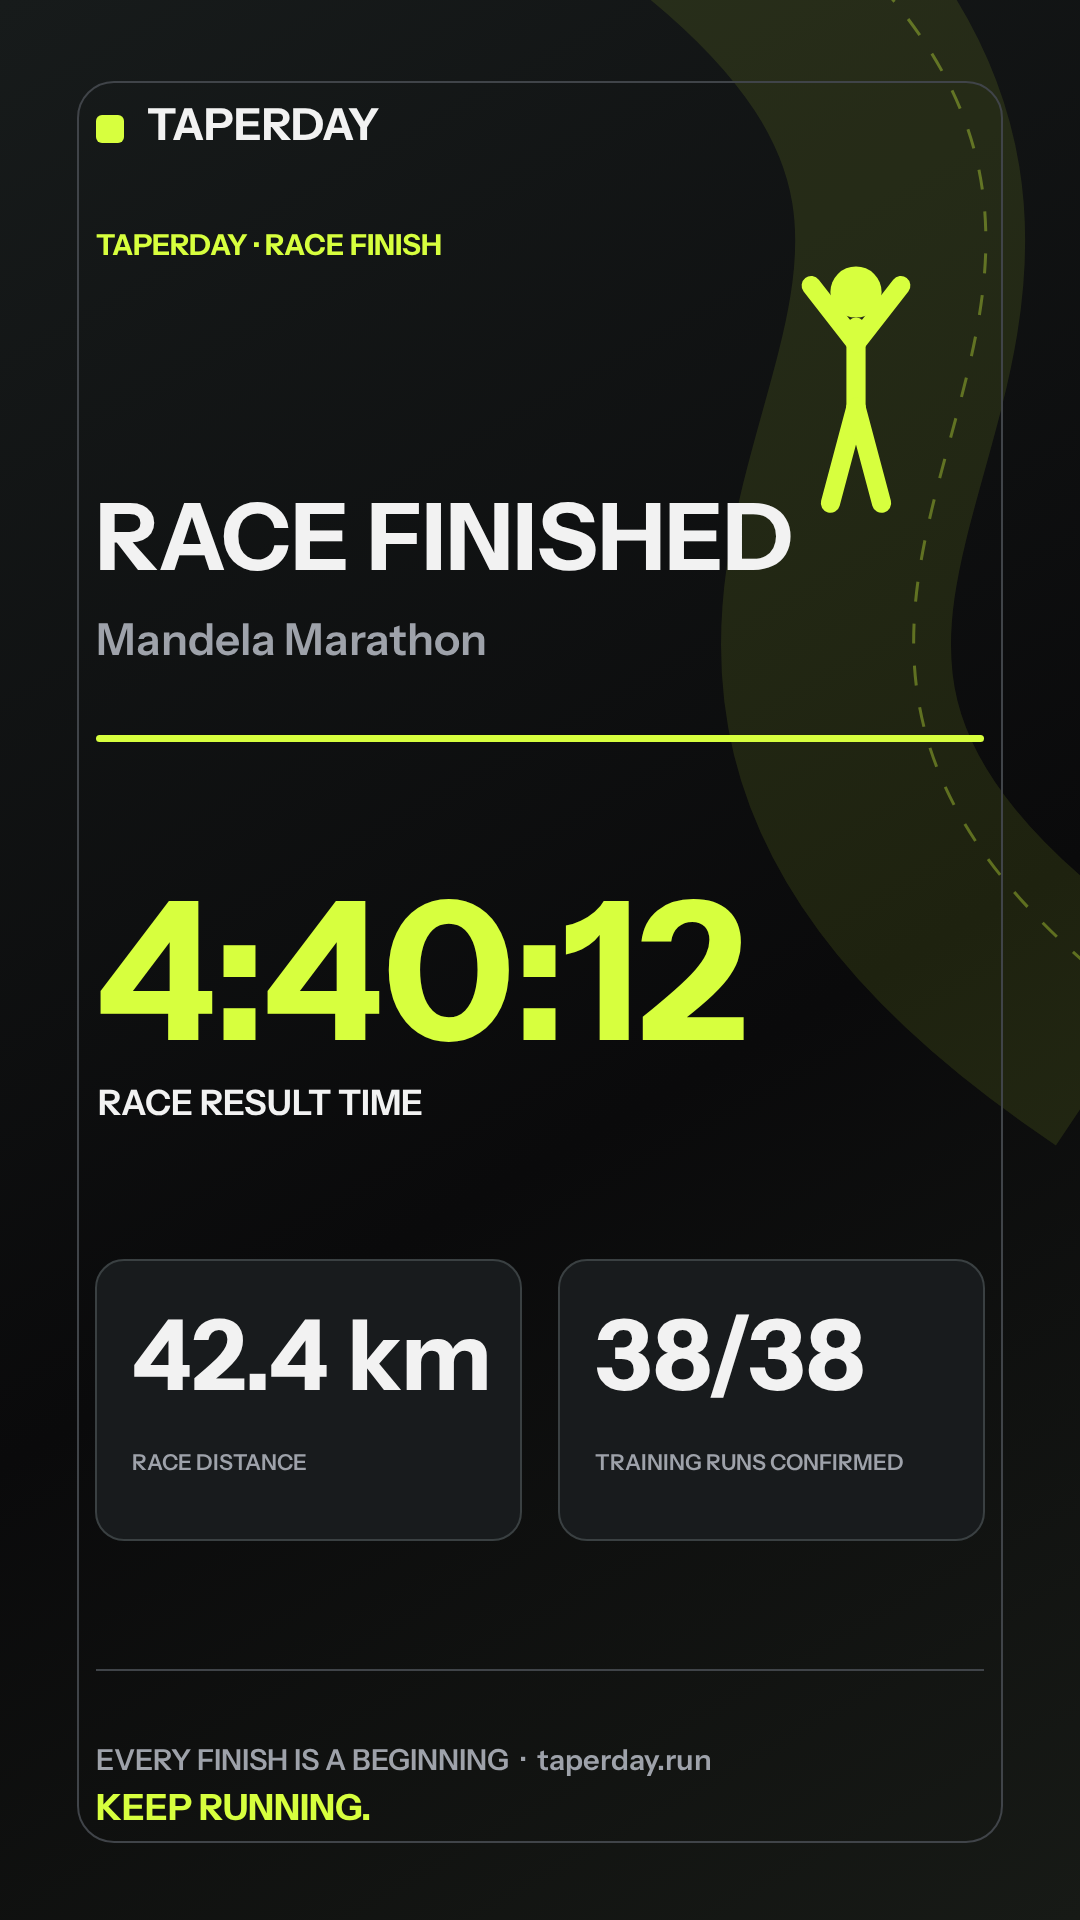
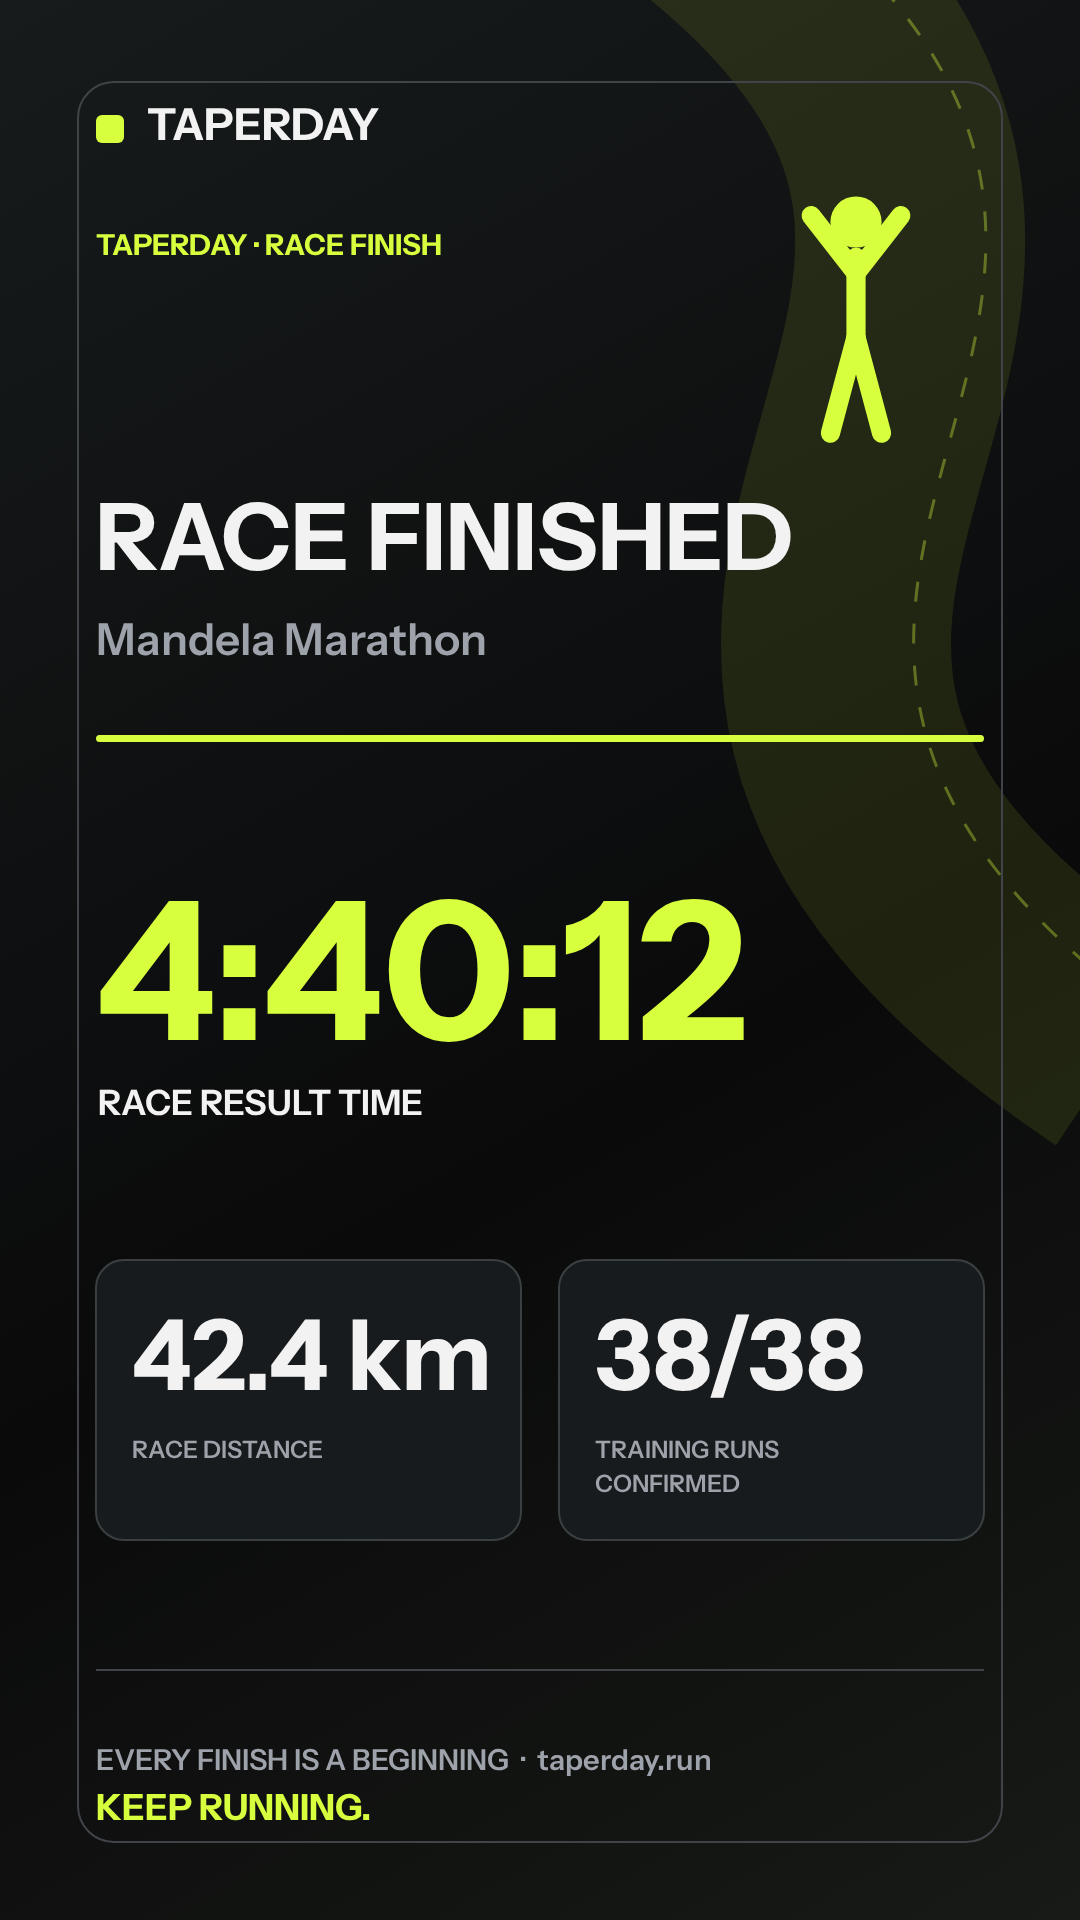
fix(journey): scope history to its account and document final visual QA

Changed region(s): [[0.7333, 0.0938, 0.8556, 0.2812], [0.55, 0.75, 0.825, 0.7812], [0.1222, 0.75, 0.3056, 0.7812]]

diff --git a/client/src/features/journey/RunningJourney.tsx b/client/src/features/journey/RunningJourney.tsx
@@ -35,7 +35,8 @@ export function RunningJourney({ units, today, runDays = [] }: { units: Units; t
   const { state, actions } = useJourney(true)
   const [loaded, setDetail] = useState<Detail | null>(null)
   const detail = loaded?.owner === auth ? loaded : null
-  const [replay, setReplay] = useState<{ kind: 'training' | 'race'; chapter: PlanChapter; trigger?: HTMLElement } | null>(null)
+  const [chosen, setReplay] = useState<{ owner: Auth; kind: 'training' | 'race'; chapter: PlanChapter; trigger?: HTMLElement } | null>(null)
+  const replay = chosen?.owner === auth ? chosen : null
   const [offerPlan, setOfferPlan] = useState<string | null>(null)
   const journeyRef = useRef<HTMLDivElement>(null)
   const [manual, setManual] = useState(false)
@@ -141,7 +142,7 @@ export function RunningJourney({ units, today, runDays = [] }: { units: Units; t
                   <button type="button" className="button" aria-expanded={!!opened && opened.kind === 'ready'} onClick={() => void open(chapter.planId)}>
                     {opened?.kind === 'ready' ? 'Close chapter' : 'View chapter'}
                   </button>
-                  {achievement(chapter, 'TrainingComplete') && <button type="button" className="button button-quiet" onClick={(event) => setReplay({ kind: 'training', chapter, trigger: event.currentTarget })}>Replay finish line</button>}
+                  {achievement(chapter, 'TrainingComplete') && <button type="button" className="button button-quiet" onClick={(event) => setReplay({ owner: auth, kind: 'training', chapter, trigger: event.currentTarget })}>Replay finish line</button>}
                 </div>
                 {opened?.kind === 'loading' && <p className="field-help" role="status">Opening…</p>}
                 {opened?.kind === 'error' && <p className="field-error" role="alert">{opened.message}</p>}
@@ -172,7 +173,7 @@ export function RunningJourney({ units, today, runDays = [] }: { units: Units; t
                             ? { ...previous, chapter: { ...previous.chapter, raceResult: result } } : previous)
                           if (request.current === requestId && recoveryWelcome(result.outcome)) setOfferPlan(opened.chapter.planId)
                           if (request.current === requestId && result.outcome === 'Finished' && opened.chapter.raceResult?.outcome !== 'Finished') {
-                            setReplay({ kind: 'race', chapter: { ...opened.chapter, raceResult: result } })
+                            setReplay({ owner: auth, kind: 'race', chapter: { ...opened.chapter, raceResult: result } })
                           }
                           return result
                         }}
@@ -183,7 +184,7 @@ export function RunningJourney({ units, today, runDays = [] }: { units: Units; t
                             ? { ...previous, chapter: { ...previous.chapter, raceResult: null } } : previous)
                           if (request.current === requestId) setOfferPlan(null)
                         }}
-                        onCelebrate={opened.chapter.raceResult?.outcome === 'Finished' ? trigger => setReplay({ kind: 'race', chapter: opened.chapter, trigger }) : undefined}
+                        onCelebrate={opened.chapter.raceResult?.outcome === 'Finished' ? trigger => setReplay({ owner: auth, kind: 'race', chapter: opened.chapter, trigger }) : undefined}
                       />
                     )}
                     {recovery ? <RecoveryDashboard recovery={recovery} today={today}

diff --git a/client/e2e/fixtures/finish-line.tsx b/client/e2e/fixtures/finish-line.tsx
@@ -35,7 +35,7 @@ const importedRuns: ActivitySummary[] = params.get('duplicate') === '1'
   ? [stravaMarathon, { ...stravaMarathon, id: '44444444-4444-4444-8444-444444444444', source: { ...stravaMarathon.source, kind: 'Upload', viewUrl: null } }]
   : [stravaMarathon]
 const award = (kind: 'TrainingComplete' | 'RaceFinished', celebratedAt: string | null = null) =>
-  ({ id: `award-${kind}`, kind, planId: PLAN_ID, earnedOn: kind === 'RaceFinished' ? '2026-11-15' : '2026-11-14', awardedAt: '2026-11-14T10:00:00Z', celebratedAt })
+  ({ id: `award-${kind}`, kind, planId: PLAN_ID, earnedOn: kind === 'RaceFinished' ? raceDate : '2026-11-14', awardedAt: '2026-11-14T10:00:00Z', celebratedAt })
 const seen = '2026-11-14T11:00:00Z'
 
 function initial(): Journey {
@@ -78,7 +78,7 @@ function useFakeJourney() {
       const result = raceResult({ outcome: body.outcome, raceDate: body.raceDate ?? '2026-11-15', finishTime: body.finishTime ?? null, distanceKm: body.distanceKm ?? null, activityId: body.activityId ?? null, versusGoal: body.finishTime === '01:52:10' ? '-00:02:50' : null, note: body.note ?? null, version: `v${Date.now()}` })
       update(j => ({ ...j, chapters: j.chapters.map(c => c.planId !== planId ? c : {
         ...c, raceResult: result, lifecycle: body.outcome === 'Finished' ? 'RaceCompleted' : 'RaceNotCompleted',
-        achievements: [...c.achievements.filter(a => a.kind !== 'RaceFinished'), ...(body.outcome === 'Finished' ? [award('RaceFinished')] : [])],
+        achievements: [...c.achievements.filter(a => a.kind !== 'RaceFinished'), ...(body.outcome === 'Finished' ? [{ ...award('RaceFinished'), earnedOn: result.raceDate }] : [])],
       }) }))
       return Promise.resolve(result)
     },
@@ -131,7 +131,7 @@ window.fetch = (input, init) => {
     const result = body ? raceResult({ ...body, planId: resultPath[1], raceDate: body.raceDate ?? raceDate, version: crypto.randomUUID(), versusGoal: null }) : null
     served.journey = { ...served.journey, chapters: served.journey.chapters.map(c => c.planId !== resultPath[1] ? c : {
       ...c, raceResult: result,
-      achievements: [...c.achievements.filter(a => a.kind !== 'RaceFinished'), ...(result?.outcome === 'Finished' ? [award('RaceFinished', seen)] : [])],
+      achievements: [...c.achievements.filter(a => a.kind !== 'RaceFinished'), ...(result?.outcome === 'Finished' ? [{ ...award('RaceFinished', seen), earnedOn: result.raceDate }] : [])],
     }) }
     if (scene === 'strava-history') localStorage.setItem('test:past-marathon-journey', JSON.stringify(served.journey))
     return Promise.resolve(result ? Response.json(result) : new Response(null, { status: 204 }))

diff --git a/client/src/features/journey/useJourney.ts b/client/src/features/journey/useJourney.ts
@@ -1,5 +1,5 @@
 import { useCallback, useEffect, useRef, useState } from 'react'
-import { useAuth } from '../../app/auth-context'
+import { useAuth, type Auth } from '../../app/auth-context'
 import { api } from '../../lib/api-client'
 import { isJourneyPayload } from './journey-model'
 import type {
@@ -41,7 +41,8 @@ export interface JourneyActions {
  */
 export function useJourney(enabled: boolean): { state: JourneyState; actions: JourneyActions } {
   const auth = useAuth()
-  const [state, setState] = useState<JourneyState>({ kind: 'loading' })
+  const [loaded, setState] = useState<JourneyState & { owner: Auth }>({ kind: 'loading', owner: auth })
+  const state: JourneyState = loaded.owner === auth ? loaded : { kind: 'loading' }
   const sequence = useRef(0)
   const owner = useRef(0)
 
@@ -52,12 +53,12 @@ export function useJourney(enabled: boolean): { state: JourneyState; actions: Jo
       .then(journey => {
         if (mine !== sequence.current) return
         if (!isJourneyPayload(journey)) throw new Error('Your running journey returned an unexpected response. Try again.')
-        setState({ kind: 'ready', journey, refreshFailed: false })
+        setState({ kind: 'ready', journey, refreshFailed: false, owner: auth })
       })
       .catch((error: unknown) => {
         if (mine !== sequence.current) return
         const message = error instanceof Error ? error.message : 'Your running journey couldn’t load.'
-        setState(previous => previous.kind === 'ready' ? { ...previous, refreshFailed: true } : { kind: 'error', message })
+        setState(previous => previous.owner === auth && previous.kind === 'ready' ? { ...previous, refreshFailed: true } : { kind: 'error', message, owner: auth })
       })
   }, [auth])
 
@@ -85,7 +86,7 @@ export function useJourney(enabled: boolean): { state: JourneyState; actions: Jo
     // The write succeeded even if its following refresh fails. Keep its confirmed result visible and invalidate
     // earlier reads; achievements and lifecycle are still refreshed from the server, never invented here.
     sequence.current++
-    if (apply) setState(previous => previous.kind === 'ready' ? { ...previous, journey: apply(previous.journey, result) } : previous)
+    if (apply) setState(previous => previous.owner === auth && previous.kind === 'ready' ? { ...previous, journey: apply(previous.journey, result) } : previous)
     window.dispatchEvent(new Event(CHANGED))
     return result
   }, [auth])

diff --git a/client/src/features/journey/useJourney.test.tsx b/client/src/features/journey/useJourney.test.tsx
@@ -58,4 +58,20 @@ describe('Journey writes and refresh failures', () => {
     expect(await pending).toMatchObject({ message: expect.stringContaining('account changed') })
     expect(save).not.toHaveBeenCalled()
   })
+
+  it('hides the previous account history while another account loads and when its load fails', async () => {
+    let fail!: (error: Error) => void
+    let identity: Auth = auth
+    vi.spyOn(api.me.journey, 'get').mockResolvedValueOnce(initial).mockImplementationOnce(() => new Promise((_, reject) => { fail = reject }))
+    const wrapped = ({ children }: { children: React.ReactNode }) => <AuthContext.Provider value={identity}>{children}</AuthContext.Provider>
+    const { result, rerender } = renderHook(() => useJourney(true), { wrapper: wrapped })
+    await waitFor(() => expect(result.current.state.kind).toBe('ready'))
+    identity = { ...auth, account: { name: 'Another runner', email: 'another@example.test' } }
+    rerender()
+    expect(result.current.state).toEqual({ kind: 'loading' })
+    await waitFor(() => expect(fail).toBeDefined())
+    await act(async () => fail(new Error('Unavailable')))
+    expect(result.current.state).toMatchObject({ kind: 'error', message: 'Unavailable' })
+    expect(result.current.state).not.toHaveProperty('journey')
+  })
 })

diff --git a/client/src/features/journey/TrainingStory.tsx b/client/src/features/journey/TrainingStory.tsx
@@ -40,7 +40,7 @@ export function TrainingStory({ story, units, raceResult, onReplay, onNext, next
         : { value: formatDistance(story.plannedKmConfirmed, units), label: 'Plan distance of confirmed runs' },
     ].slice(0, 3),
     footer: 'EVERY FINISH IS A BEGINNING  ·  taperday.run',
-  }), [finishTime, isFinisher, raceResult?.distanceKm, story.confirmedRuns, story.scheduledRuns, story.weeks,
+  }), [finishTime, isFinisher, raceResult, story.confirmedRuns, story.scheduledRuns, story.weeks,
     story.recordedKm, story.plannedKmConfirmed, story.earned, story.raceName, units])
   const shareText = isFinisher
     ? `I finished ${story.raceName}${finishTime ? ` in ${finishTime}` : ''}! My Taperday story: ${story.confirmedRuns} confirmed training runs over ${story.weeks} weeks. #Taperday`

diff --git a/client/e2e/finish-line.spec.ts b/client/e2e/finish-line.spec.ts
@@ -147,6 +147,7 @@ test.describe('finish line journey', () => {
     const film = page.getByRole('dialog', { name: 'RACE FINISHED.' })
     await expect(film.getByText('4:40:12')).toBeVisible()
     await film.getByRole('button', { name: 'Back to my journey' }).click()
+    await expect(page.getByText('✓ Race finisher · 18 Oct')).toBeVisible()
     await expect(page.getByRole('heading', { name: 'Want a gentle recovery plan?' })).toBeVisible()
     await expect(page.getByRole('textbox', { name: 'Distance (km)' })).toHaveCount(0)
     await page.getByRole('button', { name: 'Start my recovery' }).dblclick()

diff --git a/docs/qa/2026-11-14/strava-race-results.md b/docs/qa/2026-11-14/strava-race-results.md
@@ -8,7 +8,13 @@ Race suggestions use the plan's race date, running activity kind and a bounded d
 
 The pending-result prompt precedes the training recap on both current and past chapters. A recording-list error keeps chapter history and manual entry available, with a retry. Failed saves retain verified values; late recording/chapter responses cannot confirm a closed form or reopen an older chapter.
 
+Linking a run from the manual form loads its actual distance and elapsed time, retaining the runner's chosen outcome and note. An edited result holds the version the runner opened, so a background refresh cannot silently approve overwriting another device's changes. Successful writes remain visible if their following refresh fails. Account changes hide the preceding runner's history and celebrations, and invalidate token retrieval for pending writes.
+
+A newly confirmed historical finish plays the existing race celebration, with an explicit replay afterwards. Recovery is a separate opt-in step, prefilled from the saved historical result. Reloading a past chapter never auto-plays its celebration or creates a recovery. The SQL sequence also verifies that repeating the recovery request returns the same recovery.
+
 The share card uses the confirmed race result, including edited chip time, and race distance where supplied. Unconfirmed suggestions and DNF/DNS results never produce a race-finished card. SVG text is escaped and bounded to the card; PNG output remains 1080 × 1920. The save button's accessible name now matches its visible label, fixing the PR's failing WCAG checks.
+
+Native sharing prepares the PNG before the tap, then invokes the share sheet within the original click handler. The browser test enforces both an active user gesture and invocation before the click bubbles out; cancellation never copies content unexpectedly. Metric labels wrap onto two lines, and the SVG test checks that runner artwork clears the headline.
 
 ## Sequence coverage
 
@@ -16,6 +22,9 @@ The share card uses the confirmed race result, including edited chip time, and r
 | --- | --- |
 | Existing Strava recording → explicit confirmation → elapsed time, actual distance and activity ID saved | `RaceResultForm.test.tsx`; active-plan Playwright journey; SQL `JourneyTests` |
 | Archived chapter → failed confirmation → retry/double click → edit chip time → fresh load → undo | `RunningJourney.test.tsx`; past-chapter Playwright journey; SQL active/archived theory |
+| Historical confirmation → race celebration → prefilled recovery → repeated start → reload | Running journey unit/browser journeys; SQL active/archived theory |
+| Manual link → recorded metrics loaded without changing outcome/note; concurrent edit conflict | Race result form regressions |
+| Successful result/recovery/undo → failed refresh; late read; account changes during token retrieval | `useJourney.test.tsx` |
 | Multiple matching uploads/Strava recordings → choose one → review or confirm | Form unit test and phone browser journey |
 | Wrong date/kind/distance, no match, future race, invalid elapsed/moving time | Matching/form unit tests; no save or finisher assertion |
 | Expired/unavailable recording; another runner's recording | Form/browser fallback tests; SQL detail/save both return 404 and no result/award |
@@ -26,13 +35,28 @@ The share card uses the confirmed race result, including edited chip time, and r
 ## Validation
 
 - Strict Release backend build: zero warnings/errors; formatting and EF pending-model check pass.
-- Full backend suite passes; the expanded SQL journey suite separately passes all 18 tests, including the three new recording cases.
-- Frontend typecheck, lint, all 844 tests (119 files), production build and audit pass (zero vulnerabilities).
-- All 61 focused journey unit tests pass after the final prompt-order and accessibility changes.
-- Full Playwright results are recorded in the PR's validation section. The script's browser stage was rerun separately after overlapping local browser processes competed for the same ports.
+- Expanded SQL journey suite: all 18 tests pass, including recording confirmation, recovery idempotency and ownership.
+- All 69 focused journey unit tests pass after the final handoff, sharing, concurrency and account-boundary changes.
+- Final full repository checks, frontend totals and Playwright results are recorded in the PR's validation section for the pushed commit.
 
 Reviewed captures: race suggestion at 375 px in [light](strava-race-results/race-found-375-light.png) and [dark](strava-race-results/race-found-375-dark.png); confirmed result at 1440 px in [light](strava-race-results/race-finished-1440-light.png) and [dark](strava-race-results/race-finished-1440-dark.png); the actual [exported PNG](strava-race-results/race-finish-card.png).
+
+## Before / after
+
+Before captures run the unchanged application code from the comparison base, staging commit `c3d4dee537e4b0cab18d46826b05314a88741f16`. Only the test fixture was supplied with the same synthetic Mandela Marathon chapter and existing Strava recording used for the after captures. These are local browser renders and actual downloads, not production screenshots or design mockups.
+
+| Surface | Before | After |
+| --- | --- | --- |
+| 375 px, dark | [Before](strava-race-results/before-375-dark.png) | [After](strava-race-results/after-375-dark.png) |
+| 375 px, light | [Before](strava-race-results/before-375-light.png) | [After](strava-race-results/after-375-light.png) |
+| 1440 px, dark | [Before](strava-race-results/before-1440-dark.png) | [After](strava-race-results/after-1440-dark.png) |
+| 1440 px, light | [Before](strava-race-results/before-1440-light.png) | [After](strava-race-results/after-1440-light.png) |
+| Downloaded 1080×1920 training card | [Before](strava-race-results/before-training-card.png) | [After](strava-race-results/after-training-card.png) |
+
+Historical confirmation and recovery handoff: [375 px dark](strava-race-results/historical-recovery-375-dark.png), [375 px light](strava-race-results/historical-recovery-375-light.png), [1440 px dark](strava-race-results/historical-recovery-1440-dark.png), [1440 px light](strava-race-results/historical-recovery-1440-light.png).
 
 ## Remaining release checks
 
 Native sharing is tested with a browser stub that receives and decodes the actual PNG. This does not verify a physical iPhone/Android share sheet, Safari or Instagram. Live Entra sign-in, a real Strava sync and staging-account QA are not established by these synthetic fixtures. Complete staging and physical-device QA before production promotion.
+
+Deployment assessment: suitable for review and approved staging QA once the final checks pass. No production promotion or automatic merge is included. This follow-up adds no production schema, configuration or API-route changes.
